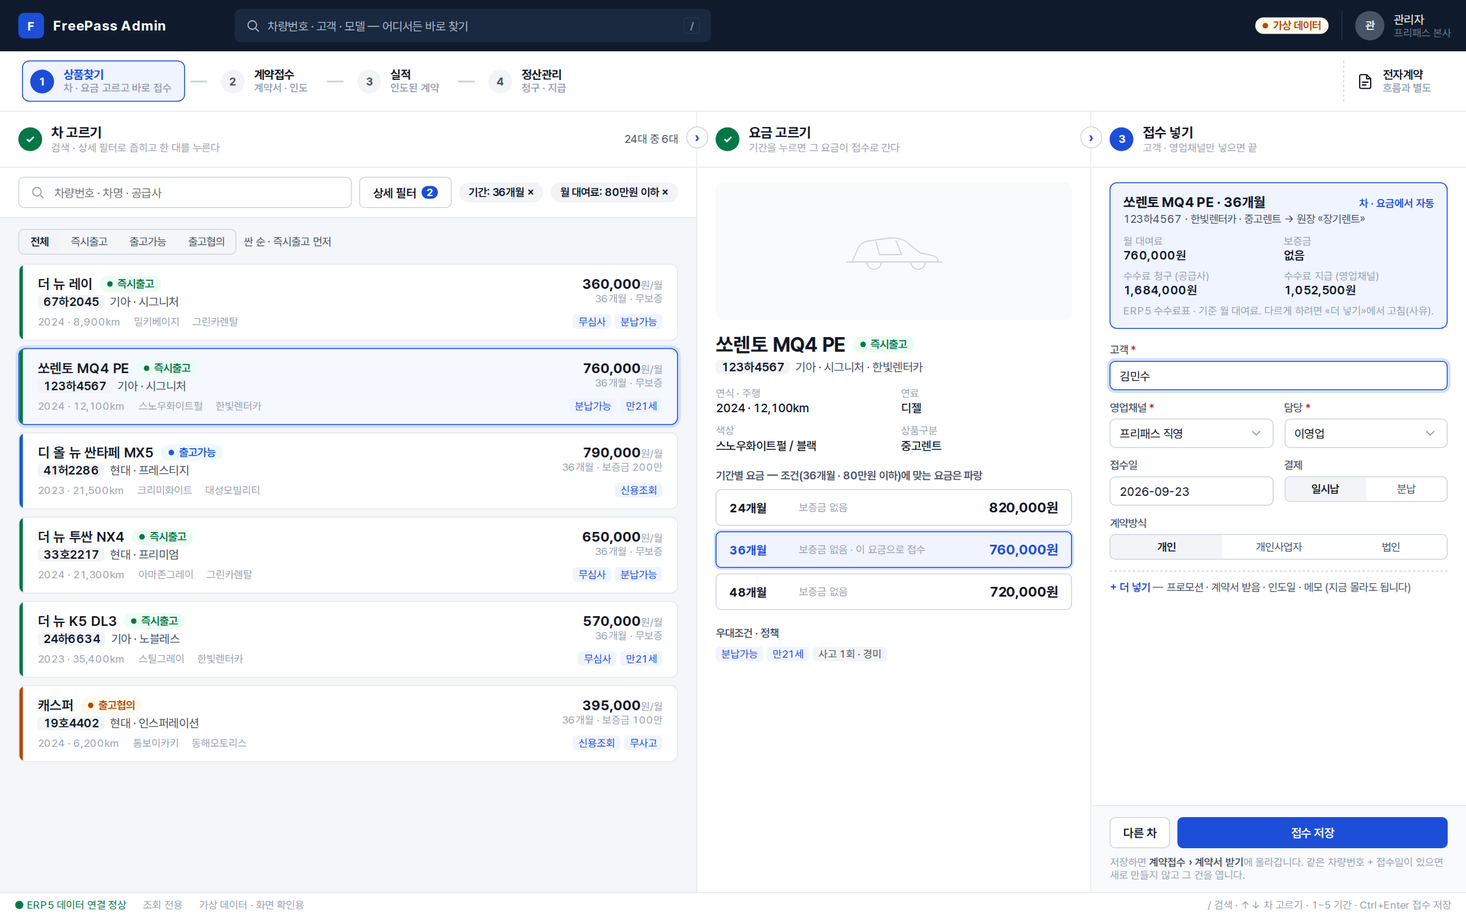
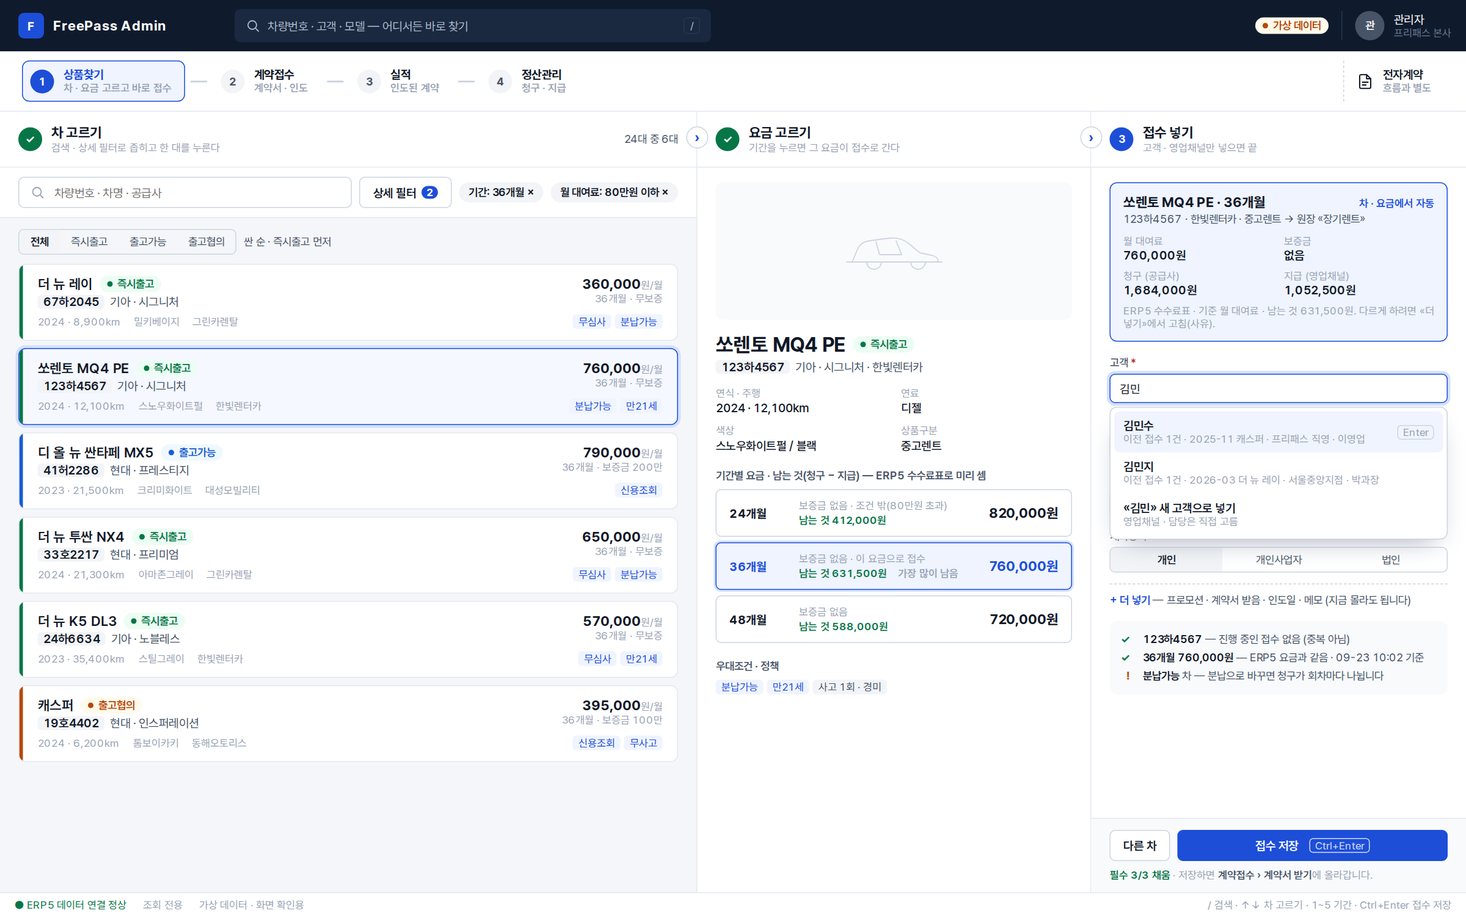
[Claude] 시안 C 고도화 — 요금별 남는 것 · 이전 고객 찾기 · 저장 전 확인 · 저장 직후 다음 걸음 · 폰판
Claude-Session: https://claude.ai/code/session_01VHqvSXhUy82o1cFFrYMP3F

diff --git a/design/erp-standard/proposals/admin-fit/admin-fit.css b/design/erp-standard/proposals/admin-fit/admin-fit.css
@@ -144,3 +144,72 @@
 .fpa-save p b { color: var(--erp-color-text-2); font-weight: var(--erp-fw-semibold); }
 .fpa-col .erp-chip { flex: none; white-space: nowrap; }
 .fpa-col .erp-search { flex: 1 1 200px; }
+
+/* ── 고도화 (대표 2026-09-23 「좋네 조금 더 고도화해줄래」) ── */
+/* ② 요금마다 «남는 것» — 기간을 돈으로 고른다 */
+.fpa-offer { grid-template-columns: 64px minmax(0, 1fr) auto; }
+.fpa-offer-sub { display: flex; flex-direction: column; gap: 2px; }
+.fpa-offer-sub em { color: var(--erp-color-ok); font-size: var(--erp-fs-caption); font-style: normal; font-weight: var(--erp-fw-semibold); }
+.fpa-offer .erp-tag { margin-left: 6px; }
+/* ③ 고객 찾기 — 이전 고객이면 채널 · 담당까지 채운다 */
+.fpa-suggest-wrap { position: relative; }
+.fpa-suggest { position: absolute; z-index: 5; top: calc(100% + 4px); left: 0; right: 0; margin: 0; padding: var(--erp-sp-1); list-style: none; border: 1px solid var(--erp-color-line-strong); border-radius: var(--erp-r-lg); background: var(--erp-color-surface); box-shadow: 0 12px 28px -14px var(--erp-color-text-3); }
+.fpa-suggest li { display: flex; align-items: center; gap: 10px; padding: var(--erp-sp-2) 10px; border-radius: var(--erp-r-md); }
+.fpa-suggest li[aria-selected="true"] { background: var(--erp-color-primary-weak); }
+.fpa-suggest b { font-weight: var(--erp-fw-semibold); }
+.fpa-suggest small { display: block; color: var(--erp-color-text-3); font-size: var(--erp-fs-caption); }
+.fpa-suggest kbd { margin-left: auto; padding: 0 5px; border: 1px solid var(--erp-color-line-strong); border-radius: var(--erp-r-sm); color: var(--erp-color-text-3); font-family: inherit; font-size: var(--erp-fs-caption); }
+.fpa-filled { color: var(--erp-color-primary); font-size: var(--erp-fs-caption); font-weight: var(--erp-fw-semibold); }
+/* ③ 저장 전 확인 */
+.fpa-checks { margin: var(--erp-sp-4) 0 0; padding: 10px var(--erp-sp-3); list-style: none; border-radius: var(--erp-r-lg); background: var(--erp-color-sunken); }
+.fpa-checks li { display: flex; gap: var(--erp-sp-2); padding: 3px 0; color: var(--erp-color-text-2); font-size: var(--erp-fs-label); }
+.fpa-checks li::before { content: "✓"; flex: none; width: 16px; color: var(--erp-color-ok); font-weight: var(--erp-fw-bold); }
+.fpa-checks li[data-tone="warn"]::before { content: "!"; color: var(--erp-color-warn); text-align: center; }
+.fpa-checks b { color: var(--erp-color-text); font-weight: var(--erp-fw-semibold); }
+.fpa-req { color: var(--erp-color-ok); font-weight: var(--erp-fw-semibold); }
+/* 저장 직후 — 같은 자리에 다음 걸음 */
+.fpa-saved { padding: var(--erp-sp-4); border: 1px solid var(--erp-color-ok); border-radius: var(--erp-r-lg); background: var(--erp-color-ok-bg); }
+.fpa-saved-top { display: flex; align-items: center; gap: 10px; }
+.fpa-saved-top i { display: grid; place-items: center; width: 28px; height: 28px; border-radius: var(--erp-r-pill); background: var(--erp-color-ok); color: var(--erp-color-on-primary); font-style: normal; font-weight: var(--erp-fw-bold); }
+.fpa-saved-top b { font-size: var(--erp-fs-section); font-weight: var(--erp-fw-bold); }
+.fpa-saved-top small { display: block; color: var(--erp-color-text-2); font-size: var(--erp-fs-caption); }
+.fpa-saved .erp-props { margin-top: 14px; }
+.fpa-next { margin-top: var(--erp-sp-4); }
+.fpa-next p { margin: 0 0 var(--erp-sp-2); color: var(--erp-color-text-2); font-size: var(--erp-fs-label); font-weight: var(--erp-fw-semibold); }
+.fpa-next ol { margin: 0; padding: 0; list-style: none; counter-reset: n; }
+.fpa-next li { display: flex; align-items: center; gap: 10px; padding: var(--erp-sp-2) 0; border-bottom: 1px solid var(--erp-color-line-row); counter-increment: n; }
+.fpa-next li::before { content: counter(n); display: grid; place-items: center; flex: none; width: 20px; height: 20px; border-radius: var(--erp-r-pill); background: var(--erp-color-neutral-bg); color: var(--erp-color-text-2); font-size: var(--erp-fs-caption); font-weight: var(--erp-fw-bold); }
+.fpa-next li:first-child::before { background: var(--erp-color-primary); color: var(--erp-color-on-primary); }
+.fpa-next li span { flex: 1; }
+.fpa-next li small { color: var(--erp-color-text-3); font-size: var(--erp-fs-caption); }
+.fpa-just { border-color: var(--erp-color-ok); }
+.fpa-just-tag { background: var(--erp-color-ok-bg); color: var(--erp-color-ok); }
+
+/* ── 폰 — ① → ② → ③ 을 한 장씩 ── */
+.fpa-phones-page { margin: 0; padding: 28px 40px 36px; background: var(--erp-color-bg); color: var(--erp-color-text); font-family: var(--erp-font-family); font-size: var(--erp-fs-body); }
+.fpa-phones-page a { color: inherit; text-decoration: none; }
+.fpa-phones-title { margin: 0 0 4px; font-size: var(--erp-fs-title); font-weight: var(--erp-fw-bold); }
+.fpa-phones-desc { margin: 0 0 22px; color: var(--erp-color-text-2); }
+.fpa-phones { display: flex; justify-content: center; align-items: flex-start; gap: 18px; }
+.fpa-phone-cap { margin: 0 0 10px; text-align: center; color: var(--erp-color-text-2); font-size: var(--erp-fs-label); font-weight: var(--erp-fw-semibold); }
+.fpa-phone-cap b { display: inline-grid; place-items: center; width: 20px; height: 20px; margin-right: 6px; border-radius: var(--erp-r-pill); background: var(--erp-color-primary); color: var(--erp-color-on-primary); font-size: var(--erp-fs-caption); }
+.fpa-phone { display: flex; flex-direction: column; width: 360px; height: 740px; overflow: hidden; border: 9px solid var(--erp-color-nav); border-radius: calc(var(--erp-r-lg) * 5); background: var(--erp-color-bg); }
+.fpa-phone-top { padding: 12px var(--erp-sp-4) 10px; background: var(--erp-color-nav); color: var(--erp-color-nav-text-strong); }
+.fpa-phone-top b { font-size: var(--erp-fs-section); font-weight: var(--erp-fw-bold); }
+.fpa-phone-top small { margin-left: 6px; color: var(--erp-color-nav-text); font-size: var(--erp-fs-caption); }
+.fpa-dots { display: flex; gap: 6px; margin-top: var(--erp-sp-2); }
+.fpa-dots span { flex: 1; padding: 3px 0; border-radius: var(--erp-r-sm); background: var(--erp-color-nav-raised); color: var(--erp-color-nav-muted); font-size: var(--erp-fs-caption); text-align: center; }
+.fpa-dots span[data-state="done"] { color: var(--erp-color-nav-text-strong); }
+.fpa-dots span[aria-current="step"] { background: var(--erp-color-primary); color: var(--erp-color-on-primary); font-weight: var(--erp-fw-semibold); }
+.fpa-phone-body { flex: 1; min-height: 0; overflow: hidden; padding: var(--erp-sp-3); }
+.fpa-phone-body .erp-search { flex: none; width: 100%; margin-bottom: var(--erp-sp-2); background: var(--erp-color-surface); }
+.fpa-phone-body .fpa-pick { padding: 10px var(--erp-sp-3) 10px var(--erp-sp-4); }
+.fpa-phone-body .fpa-photo { height: 110px; }
+.fpa-phone-body .fpa-form { grid-template-columns: 1fr 1fr; }
+.fpa-phone-chips { display: flex; gap: 6px; margin-bottom: 10px; overflow: hidden; }
+.fpa-phone-chips .erp-chip { flex: none; }
+.fpa-phone-bar { display: flex; gap: var(--erp-sp-2); padding: 10px var(--erp-sp-3) 14px; border-top: 1px solid var(--erp-color-line); background: var(--erp-color-surface); }
+.fpa-phone-bar .erp-btn--primary { flex: 1; justify-content: center; }
+.fpa-phone-back { color: var(--erp-color-nav-text); font-size: var(--erp-fs-caption); }
+.fpa-save kbd { margin-left: 6px; padding: 0 5px; border: 1px solid var(--erp-color-on-primary); border-radius: var(--erp-r-sm); font-family: inherit; font-size: var(--erp-fs-caption); font-weight: var(--erp-fw-regular); opacity: .8; }
+.fpa-phones-page.erp-app { display: block; height: auto; min-width: 0; }

diff --git a/design/erp-standard/proposals/admin-fit/saved.html b/design/erp-standard/proposals/admin-fit/saved.html
@@ -3,7 +3,7 @@
 <head>
 <meta charset="utf-8">
 <meta name="viewport" content="width=device-width, initial-scale=1">
-<title>FreePass Admin 시안 C — 상품 · 접수 한 화면</title>
+<title>FreePass Admin 시안 C — 상품 · 접수 한 화면 (저장 직후)</title>
 <!-- 시안 C — FreePass Admin 맞춤형. 대표 2026-09-23 「상품을 찾아가지고 접수하고 이거를 한 면에서 … 그 동선을 잘 짜줘야지」.
      ① 차 고르기 → ② 요금 고르기 → ③ 접수 넣기 를 왼쪽에서 오른쪽 한 길로. 저장하면 계약접수(queue.html) «계약서 받기» 로 간다. 이름 · 차량번호는 가상 예시다. -->
 <link rel="stylesheet" href="https://cdn.jsdelivr.net/gh/orioncactus/pretendard@v1.3.9/dist/web/variable/pretendardvariable-dynamic-subset.css">
@@ -49,7 +49,7 @@
           <div class="fpa-pick-meta"><span>2024 · 8,900km</span><span>밀키베이지</span><span>그린카렌탈</span><span class="erp-tags"><span class="erp-tag erp-tag--primary">무심사</span><span class="erp-tag erp-tag--primary">분납가능</span></span></div>
         </article>
         <article class="fpa-pick" data-tone="ok" aria-current="true">
-          <div><div class="fpa-pick-name"><a class="erp-rowcard-link" href="#">쏘렌토 MQ4 PE</a><span class="erp-badge erp-badge--ok">즉시출고</span></div>
+          <div><div class="fpa-pick-name"><a class="erp-rowcard-link" href="#">쏘렌토 MQ4 PE</a><span class="erp-badge erp-badge--ok">즉시출고</span><span class="erp-tag fpa-just-tag">방금 접수 · 김민수</span></div>
             <div class="fpa-pick-car"><b>123하4567</b>기아 · 시그니처</div></div>
           <div class="fpa-pick-price"><strong>760,000<small>원/월</small></strong><span>36개월 · 무보증</span></div>
           <div class="fpa-pick-meta"><span>2024 · 12,100km</span><span>스노우화이트펄</span><span>한빛렌터카</span><span class="erp-tags"><span class="erp-tag erp-tag--primary">분납가능</span><span class="erp-tag erp-tag--primary">만21세</span></span></div>
@@ -111,41 +111,30 @@
 
   <!-- ③ 접수 넣기 -->
   <section class="fpa-col" aria-label="접수 넣기" data-region="form">
-    <div class="fpa-col-head"><span class="fpa-col-no">3</span><span><b>접수 넣기</b><small>고객 · 영업채널만 넣으면 끝</small></span></div>
+    <div class="fpa-col-head" data-state="done"><span class="fpa-col-no">✓</span><span><b>접수 넣기</b><small>저장됨 — 다음 걸음은 계약접수에서</small></span></div>
     <div class="fpa-col-body">
-      <div class="fpa-picked">
-        <div class="fpa-picked-top"><b>쏘렌토 MQ4 PE · 36개월</b><span>차 · 요금에서 자동</span></div>
-        <p>123하4567 · 한빛렌터카 · 중고렌트 → 원장 «장기렌트»</p>
-        <dl>
-          <div><dt>월 대여료</dt><dd>760,000원</dd></div>
-          <div><dt>보증금</dt><dd>없음</dd></div>
-          <div><dt>청구 (공급사)</dt><dd>1,684,000원</dd></div>
-          <div><dt>지급 (영업채널)</dt><dd>1,052,500원</dd></div>
+      <div class="fpa-saved">
+        <div class="fpa-saved-top"><i>✓</i><span><b>접수 저장됨 · FP-2609-0143</b><small>09-23 14:32 · 이영업 · ERP5 원장에 한 줄</small></span></div>
+        <dl class="erp-props">
+          <div><dt>고객</dt><dd>김민수</dd></div>
+          <div><dt>차</dt><dd>쏘렌토 MQ4 PE · 123하4567</dd></div>
+          <div><dt>요금</dt><dd>36개월 · 760,000원</dd></div>
+          <div><dt>남는 것 (예정)</dt><dd>631,500원</dd></div>
         </dl>
-        <small>ERP5 수수료표 · 기준 월 대여료 · 남는 것 631,500원. 다르게 하려면 «더 넣기»에서 고침(사유).</small>
       </div>
-      <div class="fpa-form">
-        <label class="erp-field fpa-wide fpa-suggest-wrap"><span class="erp-label">고객 <em class="erp-req">*</em></span><input class="erp-input erp-input--focus" value="김민"><ul class="fpa-suggest" role="listbox" aria-label="고객 찾기">
-          <li role="option" aria-selected="true"><span><b>김민수</b><small>이전 접수 1건 · 2025-11 캐스퍼 · 프리패스 직영 · 이영업</small></span><kbd>Enter</kbd></li>
-          <li role="option"><span><b>김민지</b><small>이전 접수 1건 · 2026-03 더 뉴 레이 · 서울중앙지점 · 박과장</small></span></li>
-          <li role="option"><span><b>«김민» 새 고객으로 넣기</b><small>영업채널 · 담당은 직접 고름</small></span></li>
-        </ul></label>
-        <label class="erp-field"><span class="erp-label">영업채널 <em class="erp-req">*</em> <span class="fpa-filled">이전 접수에서</span></span><span class="erp-input">프리패스 직영<svg viewBox="0 0 24 24"><path d="m6 9 6 6 6-6"/></svg></span></label>
-        <label class="erp-field"><span class="erp-label">담당 <em class="erp-req">*</em> <span class="fpa-filled">이전 접수에서</span></span><span class="erp-input">이영업<svg viewBox="0 0 24 24"><path d="m6 9 6 6 6-6"/></svg></span></label>
-        <label class="erp-field"><span class="erp-label">접수일</span><input class="erp-input" value="2026-09-23"></label>
-        <label class="erp-field"><span class="erp-label">결제</span><div class="erp-seg" role="group" aria-label="분납여부"><button type="button" aria-pressed="true">일시납</button><button type="button" aria-pressed="false">분납</button></div></label>
-        <label class="erp-field fpa-wide"><span class="erp-label">계약방식</span><div class="erp-seg" role="group" aria-label="계약방식"><button type="button" aria-pressed="true">개인</button><button type="button" aria-pressed="false">개인사업자</button><button type="button" aria-pressed="false">법인</button></div></label>
-        <div class="fpa-more"><b>+ 더 넣기</b> — 프로모션 · 계약서 받음 · 인도일 · 메모 (지금 몰라도 됩니다)</div>
+      <div class="fpa-next">
+        <p>이 건의 다음 걸음 — 계약접수에서 이어집니다</p>
+        <ol>
+          <li><span>계약서 받기<small> · 고객 서명 · 계약서 회수</small></span><a class="erp-btn erp-btn--sm" href="queue.html">계약접수에서 열기</a></li>
+          <li><span>인도하기<small> · 차량번호 확인 · 인도일</small></span></li>
+          <li><span>청구하기<small> · 인도 달 공급사 청구서에</small></span></li>
+          <li><span>수금 · 지급 확인<small> · 정산관리</small></span></li>
+        </ol>
       </div>
-      <ul class="fpa-checks" aria-label="저장 전 확인">
-        <li><span><b>123하4567</b> — 진행 중인 접수 없음 (중복 아님)</span></li>
-        <li><span><b>36개월 760,000원</b> — ERP5 요금과 같음 · 09-23 10:02 기준</span></li>
-        <li data-tone="warn"><span><b>분납가능</b> 차 — 분납으로 바꾸면 청구가 회차마다 나뉩니다</span></li>
-      </ul>
     </div>
     <div class="fpa-save">
-      <div><button class="erp-btn" type="button">다른 차</button><button class="erp-btn erp-btn--primary" type="submit">접수 저장 <kbd>Ctrl+Enter</kbd></button></div>
-      <p><span class="fpa-req">필수 3/3 채움</span> · 저장하면 <b>계약접수 › 계약서 받기</b>에 올라갑니다.</p>
+      <div><button class="erp-btn" type="button">같은 고객 · 다른 차</button><button class="erp-btn erp-btn--primary" type="button">다음 접수</button></div>
+      <p>차 목록은 그대로 둡니다 — 걸어 둔 조건 그대로 다음 차를 고르면 됩니다.</p>
     </div>
   </section>
 </main>

diff --git a/design/erp-standard/proposals/admin-fit/phone.html b/design/erp-standard/proposals/admin-fit/phone.html
@@ -1,0 +1,61 @@
+<!doctype html>
+<html lang="ko">
+<head>
+<meta charset="utf-8">
+<meta name="viewport" content="width=device-width, initial-scale=1">
+<title>FreePass Admin 시안 C — 폰 · 상품 → 접수</title>
+<!-- 시안 C 폰판 — PC 한 화면의 세 칸(① 차 → ② 요금 → ③ 접수)을 폰에서는 한 장씩 넘긴다. 같은 카드 · 같은 양식. 이름 · 차량번호는 가상 예시다. -->
+<link rel="stylesheet" href="https://cdn.jsdelivr.net/gh/orioncactus/pretendard@v1.3.9/dist/web/variable/pretendardvariable-dynamic-subset.css">
+<link rel="stylesheet" href="../../erp.css">
+<link rel="stylesheet" href="admin-fit.css">
+</head>
+<body class="erp-app fpa-phones-page">
+<h1 class="fpa-phones-title">폰 — 같은 길을 한 장씩</h1>
+<p class="fpa-phones-desc">PC 한 화면의 세 칸을 폰에서는 1 차 → 2 요금 → 3 접수 로 넘깁니다. 위 점이 지금 칸, 아래 단추가 다음 걸음. 카드 · 요금 · 양식은 PC 와 같은 부품입니다.</p>
+<div class="fpa-phones">
+<div><p class="fpa-phone-cap"><b>1</b>차 고르기</p><div class="fpa-phone">
+  <div class="fpa-phone-top"><b>상품찾기</b><small>24대 중 6대</small><div class="fpa-dots"><span aria-current="step">1 차</span><span>2 요금</span><span>3 접수</span></div></div>
+  <div class="fpa-phone-body">
+    <label class="erp-search"><svg viewBox="0 0 24 24"><circle cx="11" cy="11" r="7"/><path d="m21 21-4.3-4.3"/></svg><input placeholder="차량번호 · 차명 · 공급사" aria-label="검색"></label>
+    <div class="fpa-phone-chips"><span class="erp-chip">필터 2</span><span class="erp-chip">36개월 ×</span><span class="erp-chip">80만원 이하 ×</span></div>
+    <article class="fpa-pick" data-tone="ok"><div><div class="fpa-pick-name">더 뉴 레이<span class="erp-badge erp-badge--ok">즉시출고</span></div><div class="fpa-pick-car"><b>67하2045</b>기아</div></div><div class="fpa-pick-price"><strong>360,000<small>원</small></strong><span>36개월</span></div></article>
+    <article class="fpa-pick" data-tone="ok" aria-current="true"><div><div class="fpa-pick-name">쏘렌토 MQ4 PE<span class="erp-badge erp-badge--ok">즉시출고</span></div><div class="fpa-pick-car"><b>123하4567</b>기아</div></div><div class="fpa-pick-price"><strong>760,000<small>원</small></strong><span>36개월</span></div></article>
+    <article class="fpa-pick" data-tone="info"><div><div class="fpa-pick-name">싼타페 MX5<span class="erp-badge erp-badge--info">출고가능</span></div><div class="fpa-pick-car"><b>41허2286</b>현대</div></div><div class="fpa-pick-price"><strong>790,000<small>원</small></strong><span>보증금 200만</span></div></article>
+    <article class="fpa-pick" data-tone="ok"><div><div class="fpa-pick-name">투싼 NX4<span class="erp-badge erp-badge--ok">즉시출고</span></div><div class="fpa-pick-car"><b>33호2217</b>현대</div></div><div class="fpa-pick-price"><strong>650,000<small>원</small></strong><span>36개월</span></div></article>
+    <article class="fpa-pick" data-tone="ok"><div><div class="fpa-pick-name">K5 DL3<span class="erp-badge erp-badge--ok">즉시출고</span></div><div class="fpa-pick-car"><b>24하6634</b>기아</div></div><div class="fpa-pick-price"><strong>570,000<small>원</small></strong><span>36개월</span></div></article>
+  </div>
+  <div class="fpa-phone-bar"><button class="erp-btn" type="button">상세 필터</button><button class="erp-btn erp-btn--primary" type="button">쏘렌토 요금 보기 ›</button></div>
+</div></div>
+<div><p class="fpa-phone-cap"><b>2</b>요금 고르기</p><div class="fpa-phone">
+  <div class="fpa-phone-top"><span class="fpa-phone-back">‹ 목록</span> <b>쏘렌토 MQ4 PE</b><div class="fpa-dots"><span data-state="done">1 차</span><span aria-current="step">2 요금</span><span>3 접수</span></div></div>
+  <div class="fpa-phone-body">
+    <div class="fpa-photo"><svg viewBox="0 0 120 60" aria-hidden="true"><path d="M8 42h104M14 42l6-14c2-5 6-8 12-9l22-3c8-1 16 1 22 6l12 10 14 3c4 1 6 4 6 7M30 42a8 8 0 1 0 16 0M78 42a8 8 0 1 0 16 0M40 20l4 14h24l-6-15"/></svg></div>
+    <p class="fpa-detail-sub"><b>123하4567</b>기아 · 시그니처 · 한빛렌터카</p>
+    <dl class="erp-props"><div><dt>연식 · 주행</dt><dd>2024 · 12,100km</dd></div><div><dt>색상</dt><dd>스노우화이트펄</dd></div></dl>
+    <div class="fpa-sec"><p class="fpa-sec-title">기간별 요금 · 남는 것</p>
+    <ul class="fpa-offers">
+      <li class="fpa-offer" aria-pressed="false"><b>24개월</b><span class="fpa-offer-sub"><em>남는 것 412,000</em></span><strong>820,000</strong></li>
+      <li class="fpa-offer" aria-pressed="true"><b>36개월</b><span class="fpa-offer-sub"><em>남는 것 631,500</em></span><strong>760,000</strong></li>
+      <li class="fpa-offer" aria-pressed="false"><b>48개월</b><span class="fpa-offer-sub"><em>남는 것 588,000</em></span><strong>720,000</strong></li>
+    </ul></div>
+  </div>
+  <div class="fpa-phone-bar"><button class="erp-btn" type="button">‹</button><button class="erp-btn erp-btn--primary" type="button">36개월로 접수 ›</button></div>
+</div></div>
+<div><p class="fpa-phone-cap"><b>3</b>접수 넣기</p><div class="fpa-phone">
+  <div class="fpa-phone-top"><span class="fpa-phone-back">‹ 요금</span> <b>접수 넣기</b><div class="fpa-dots"><span data-state="done">1 차</span><span data-state="done">2 요금</span><span aria-current="step">3 접수</span></div></div>
+  <div class="fpa-phone-body">
+    <div class="fpa-picked"><div class="fpa-picked-top"><b>쏘렌토 · 36개월</b><span>자동</span></div><p>123하4567 · 한빛렌터카</p>
+      <dl><div><dt>월 대여료</dt><dd>760,000원</dd></div><div><dt>남는 것</dt><dd>631,500원</dd></div></dl></div>
+    <div class="fpa-form">
+      <label class="erp-field fpa-wide"><span class="erp-label">고객 <em class="erp-req">*</em></span><input class="erp-input" value="김민수"></label>
+      <label class="erp-field"><span class="erp-label">영업채널 <em class="erp-req">*</em></span><span class="erp-input">프리패스 직영</span></label>
+      <label class="erp-field"><span class="erp-label">담당 <em class="erp-req">*</em></span><span class="erp-input">이영업</span></label>
+      <label class="erp-field fpa-wide"><span class="erp-label">결제</span><div class="erp-seg" role="group" aria-label="분납여부"><button type="button" aria-pressed="true">일시납</button><button type="button" aria-pressed="false">분납</button></div></label>
+    </div>
+    <ul class="fpa-checks"><li><span><b>123하4567</b> 중복 없음</span></li><li><span>요금 ERP5 와 같음</span></li></ul>
+  </div>
+  <div class="fpa-phone-bar"><button class="erp-btn" type="button">‹</button><button class="erp-btn erp-btn--primary" type="submit">접수 저장 · 필수 3/3</button></div>
+</div></div>
+</div>
+</body>
+</html>

diff --git a/design/erp-standard/proposals/admin-fit/README.md b/design/erp-standard/proposals/admin-fit/README.md
@@ -13,7 +13,9 @@
 | 화면 | 파일 | 그림 |
 |---|---|---|
 | 상품 · 접수 한 화면 | [`index.html`](index.html) | `../../images/proposal-admin-fit.png` |
+| 같은 화면 — 접수 저장 직후 | [`saved.html`](saved.html) | `../../images/proposal-admin-fit-saved.png` |
 | 계약접수 — 할 일 묶음 + 처리 서랍 | [`queue.html`](queue.html) | `../../images/proposal-admin-fit-queue.png` |
+| 폰 — 1 차 → 2 요금 → 3 접수 한 장씩 | [`phone.html`](phone.html) | `../../images/proposal-admin-fit-phone.png` |
 
 ## 상품 · 접수 한 화면 (`index.html`)
 
@@ -26,6 +28,17 @@
 | ③ 접수 넣기 | 차 · 요금 · 수수료(ERP5 수수료표)는 자동. 사람이 넣는 건 고객 · 영업채널 · 담당(+ 결제 · 계약방식)뿐. 나머지는 «더 넣기» |
 
 접수 저장 → 계약접수 «계약서 받기» 묶음에 올라간다. 같은 차량번호 + 접수일이면 새로 만들지 않고 그 건을 연다(기능 규칙 그대로).
+
+## 고도화 (대표 2026-09-23 「좋네 조금 더 고도화해줄래」)
+
+| 자리 | 더한 것 | 왜 |
+|---|---|---|
+| ② 요금 | 기간마다 **남는 것**(청구 − 지급, ERP5 수수료표) + «가장 많이 남음» | 기간을 값이 아니라 돈으로 고른다 |
+| ③ 고객 | 이름을 치면 **이전 고객**을 찾고, 고르면 영업채널 · 담당까지 채움. 없으면 «새 고객으로 넣기» | 다시 오는 고객은 한 번에 |
+| ③ 저장 전 | **확인 줄** — 차량번호 중복 없음 · 요금이 ERP5 와 같음(기준 시각) · 분납 주의 | 잘못 넣고 되돌리는 일을 막는다 |
+| ③ 저장 단추 | **필수 3/3 채움** · Ctrl+Enter | 무엇이 빠졌는지 단추 옆에서 본다 |
+| 저장 직후 | 같은 자리에 **접수번호 + 이 건의 다음 걸음 4개**(계약서 → 인도 → 청구 → 수금·지급) · «같은 고객 · 다른 차» · «다음 접수». 목록에는 «방금 접수» 표시, 걸어 둔 조건은 그대로 | 저장하고 끝이 아니라 다음 할 일로 이어진다 |
+| 폰 | 세 칸을 한 장씩. 위 점 = 지금 칸, 아래 단추 = 다음 걸음(«쏘렌토 요금 보기 ›» → «36개월로 접수 ›» → «접수 저장»). 같은 부품 | 폰으로 그대로 넘어간다 |
 
 ## 계약접수 (`queue.html`)
 
